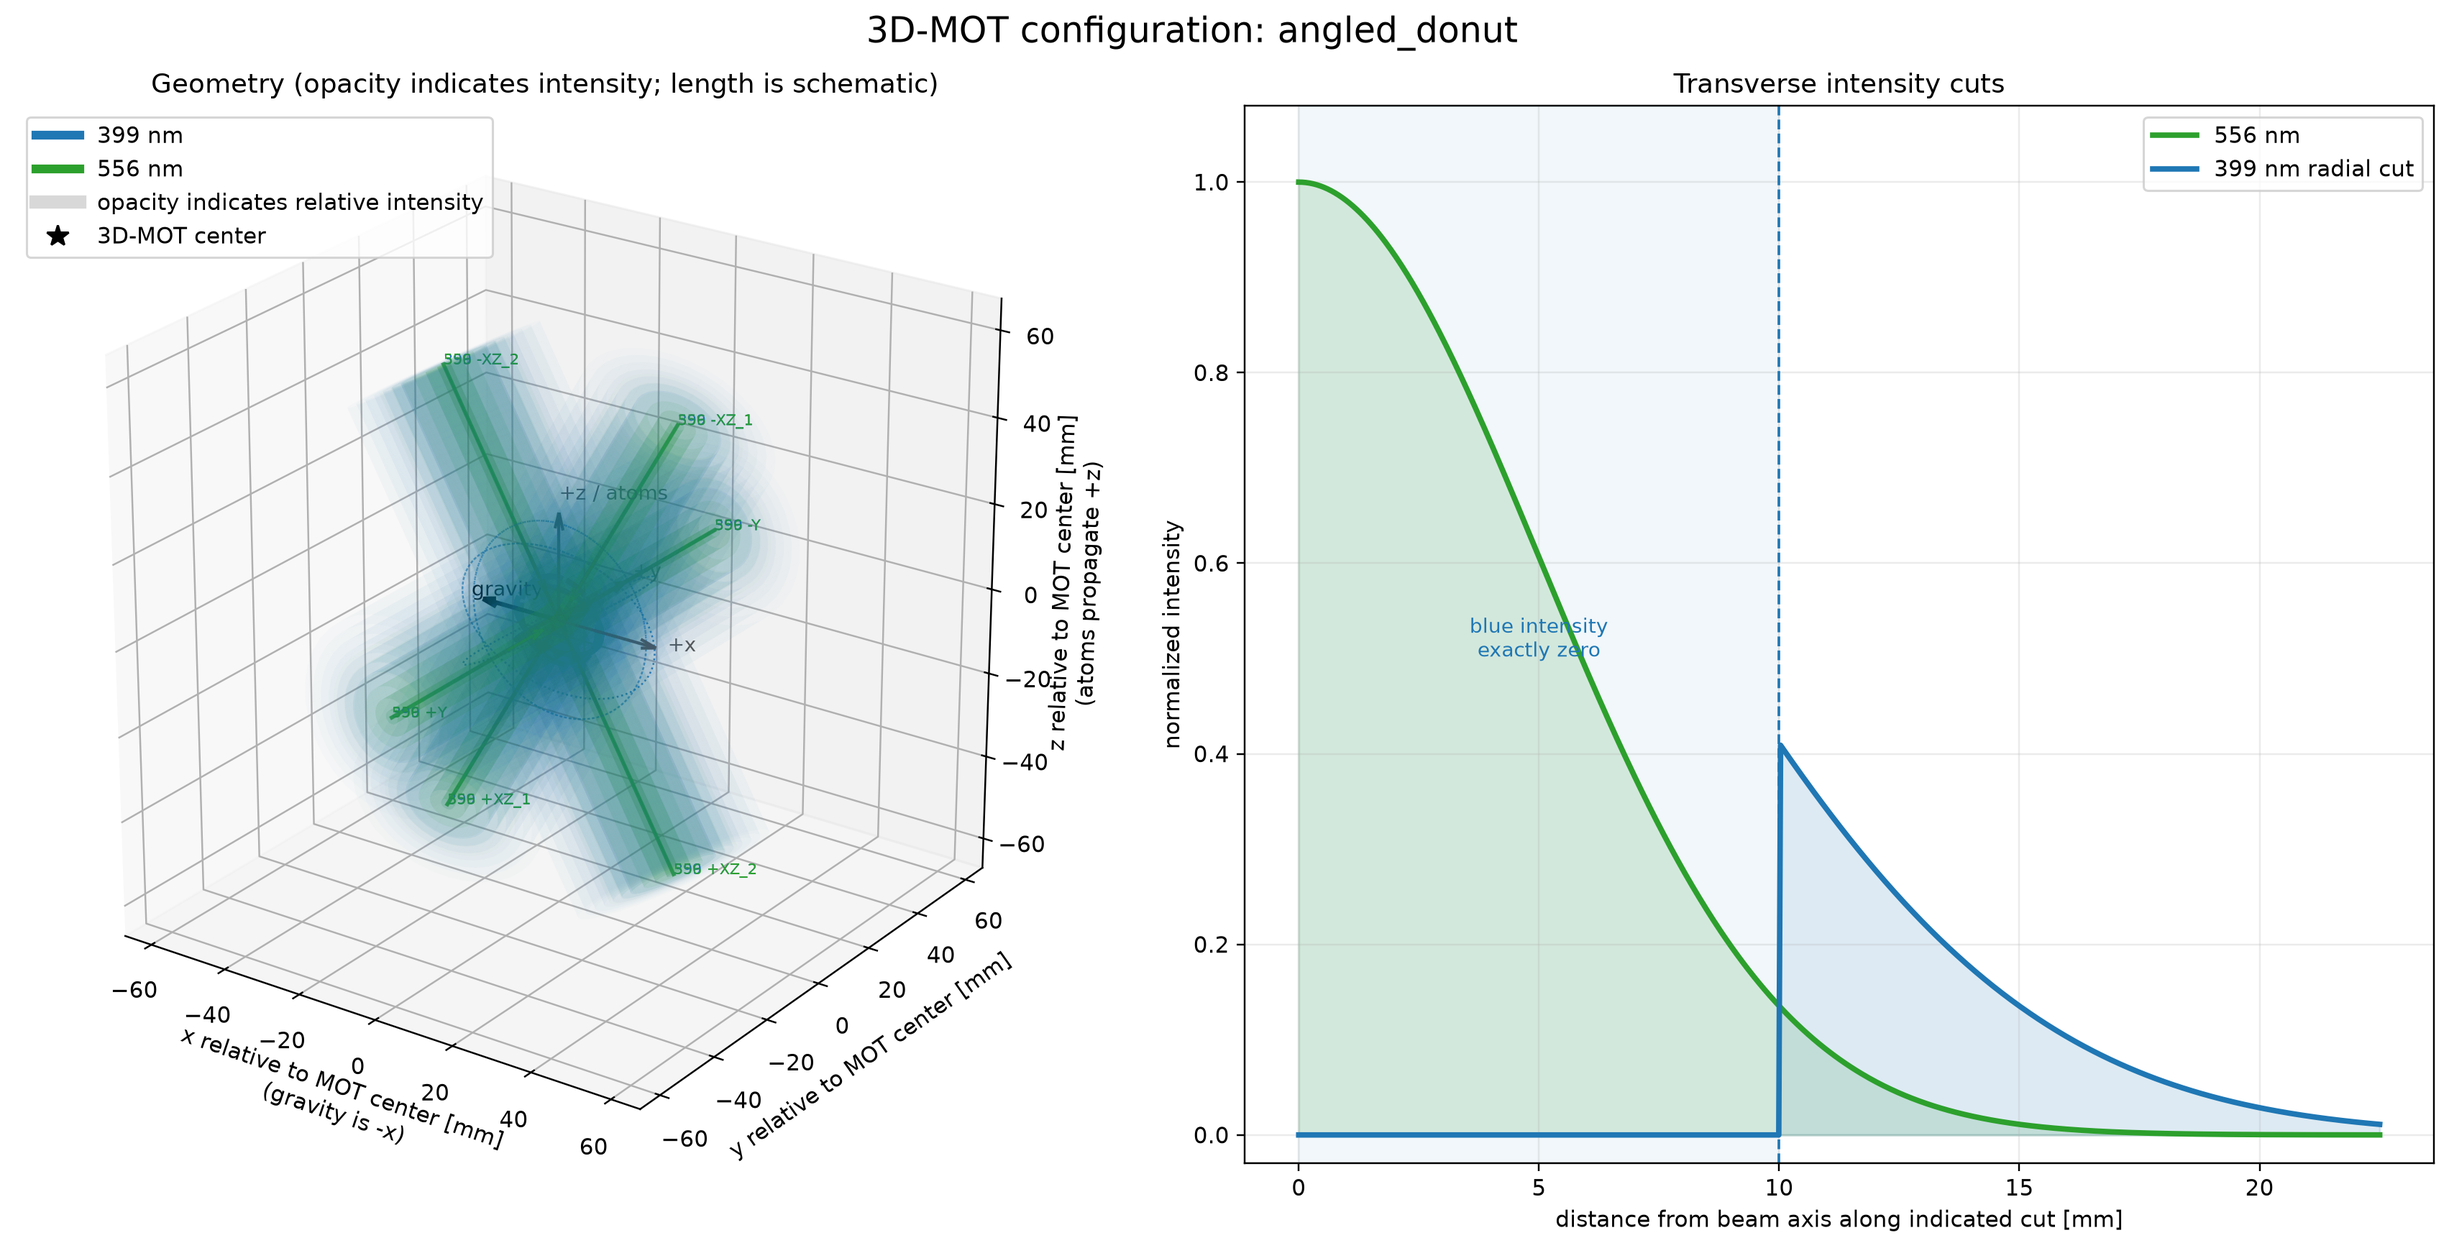
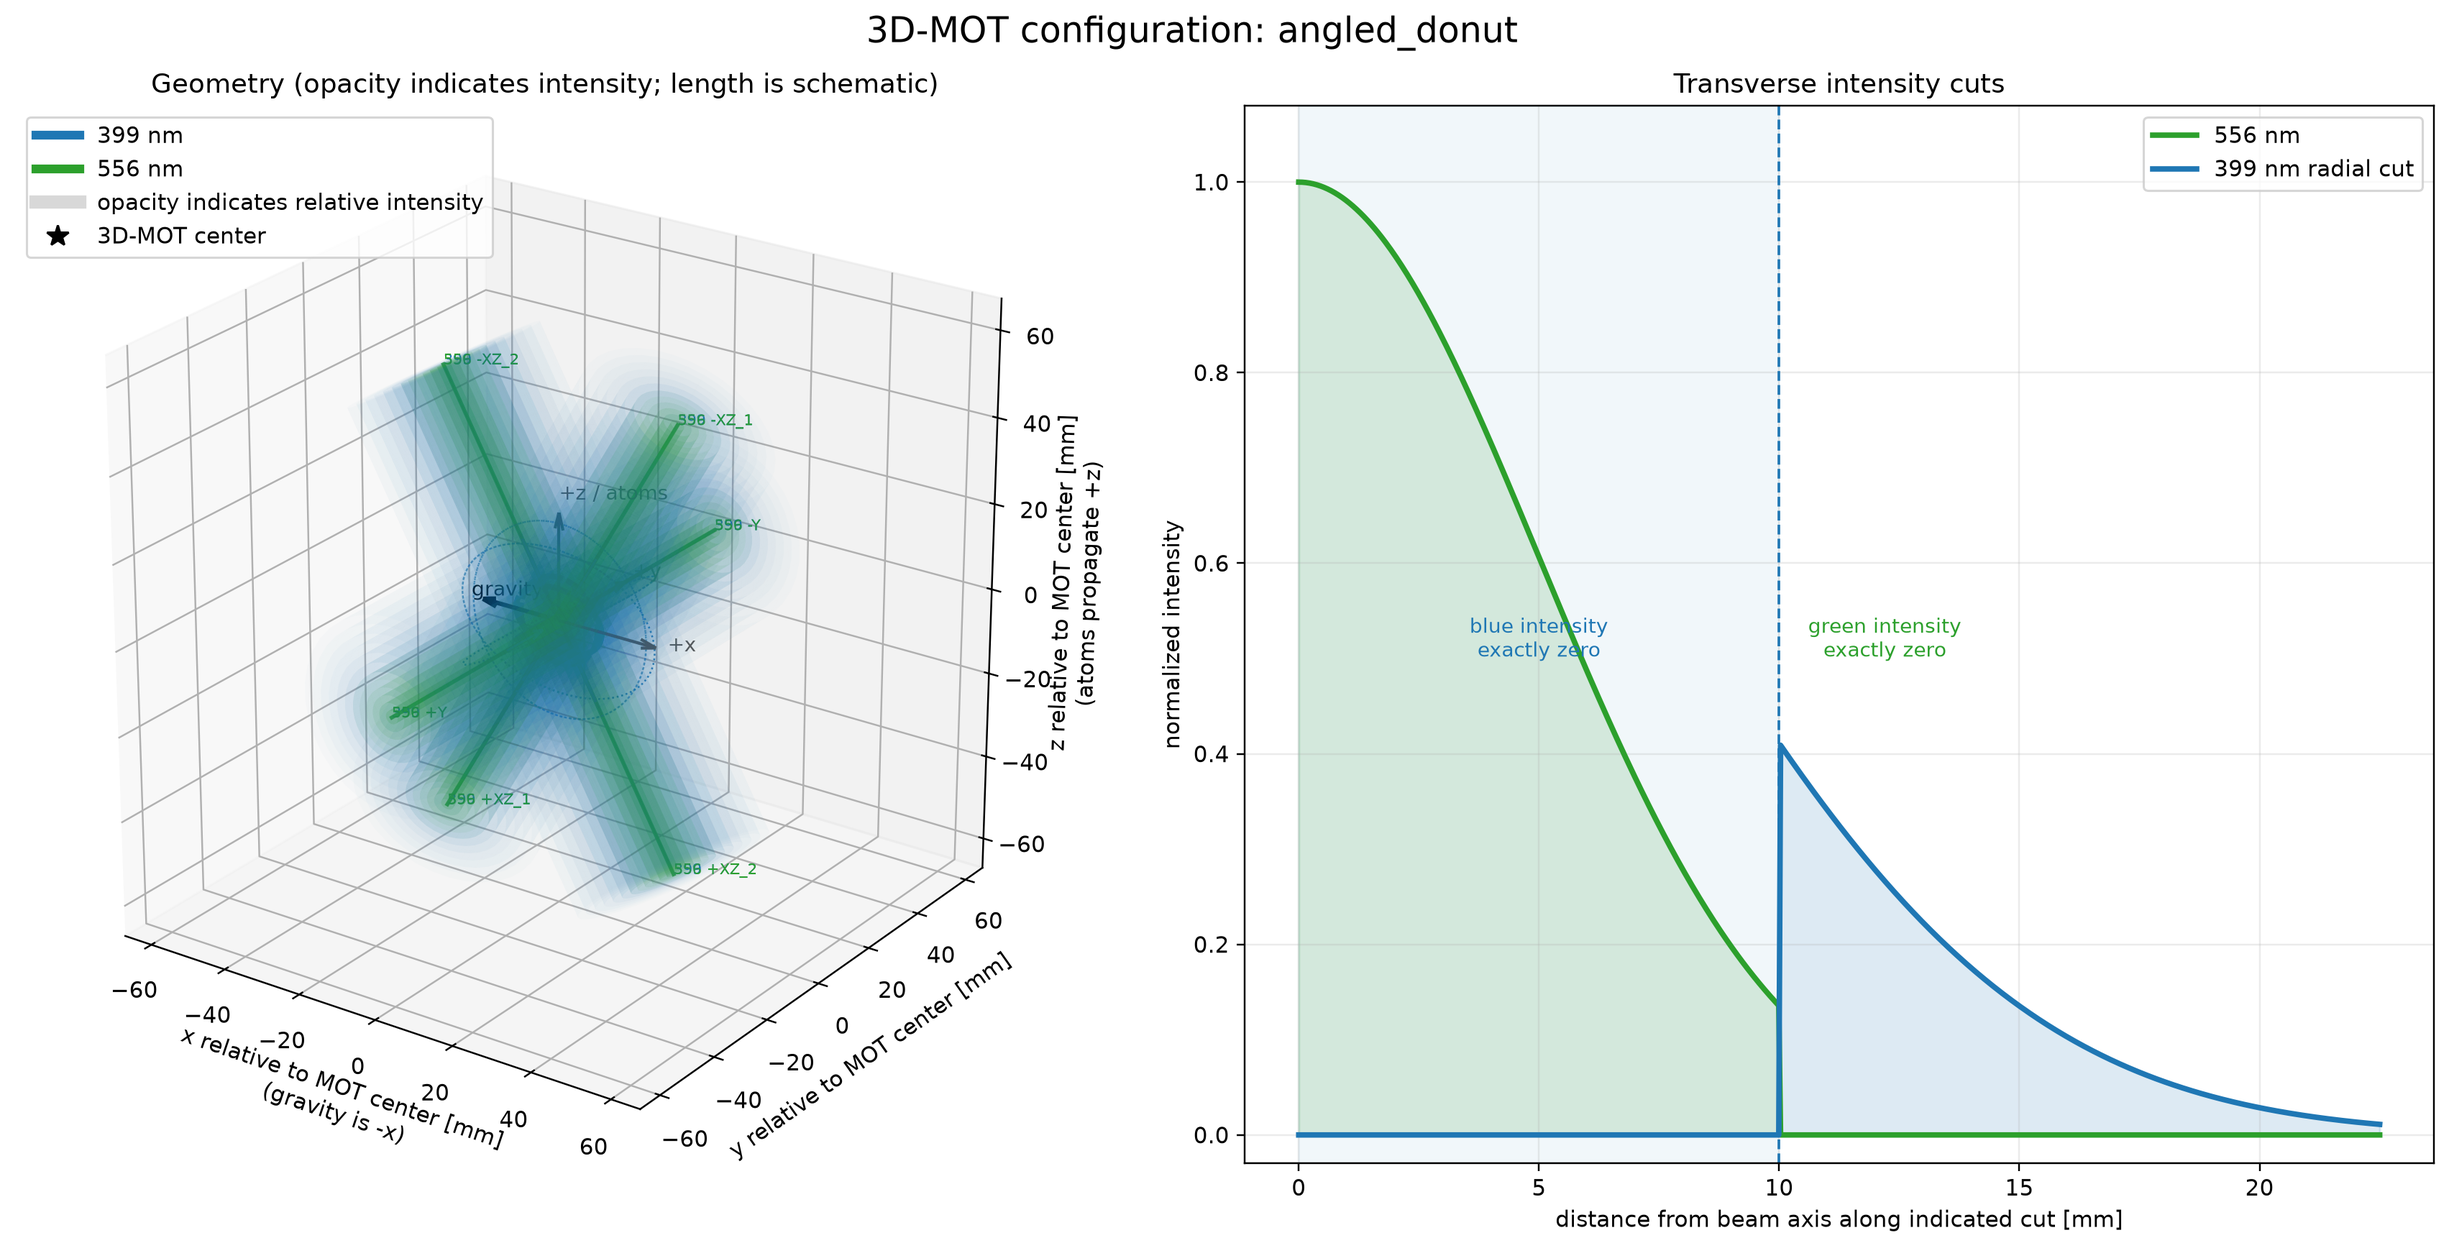
refine 3D MOT beam geometry

Changed region(s): [[0.7158, 0.8088, 0.8714, 0.9332], [0.7469, 0.4977, 0.8092, 0.5288], [0.249, 0.3422, 0.2801, 0.3733]]

diff --git a/lab_setup/laser_setup_3d.py b/lab_setup/laser_setup_3d.py
@@ -66,6 +66,32 @@ class DonutGaussianBeam(CircularGaussianBeam):
         return intensity
 
 
+class OuterClippedGaussianBeam(CircularGaussianBeam):
+    """A Gaussian beam transmitted only inside a hard outer aperture."""
+
+    def __init__(self, *args, outer_cutoff_radius=0.5e-3, **kwargs):
+        self.outer_cutoff_radius = float(outer_cutoff_radius)
+        if self.outer_cutoff_radius <= 0.0:
+            raise ValueError("outer_cutoff_radius must be positive.")
+        super().__init__(*args, **kwargs)
+
+    @property
+    def type(self):
+        return "Outer-clipped Gaussian Beam"
+
+    @property
+    def disp_type(self):
+        return "Outer-clipped beam"
+
+    @staticmethod
+    def _intensity_func(self, position):
+        position_laser = self._convert_coordinates_to_laser_frame(position)
+        x_laser, y_laser, _ = position_laser.T
+        rho_laser = np.sqrt(x_laser**2 + y_laser**2)
+        intensity = CircularGaussianBeam._intensity_func(self, position)
+        return np.where(rho_laser < self.outer_cutoff_radius, intensity, 0.0)
+
+
 def _normalize_vector(vec):
     vec = np.asarray(vec, dtype=float)
     norm = np.linalg.norm(vec)
@@ -161,7 +187,12 @@ def _validate_profile(profile):
             raise ValueError(
                 f"3D-MOT {wavelength_key} component is missing 'detuning_gamma'."
             )
-        if component["profile"] not in {"gaussian", "donut", "elliptical"}:
+        if component["profile"] not in {
+            "gaussian",
+            "donut",
+            "elliptical",
+            "outer_clipped_gaussian",
+        }:
             raise ValueError(
                 f"Unsupported 3D-MOT {wavelength_key} profile "
                 f"'{component['profile']}'."
@@ -174,6 +205,14 @@ def _validate_profile(profile):
                     )
         elif float(component.get("waist_m", 0.0)) <= 0.0:
             raise ValueError(f"3D-MOT {wavelength_key} waist_m must be positive.")
+
+        if component["profile"] == "outer_clipped_gaussian":
+            cutoff = component.get("outer_cutoff_radius_m")
+            if cutoff is None or float(cutoff) <= 0.0:
+                raise ValueError(
+                    f"Set a positive {wavelength_key}.outer_cutoff_radius_m "
+                    "for an outer-clipped Gaussian beam."
+                )
 
         polarization_by_axis = component.get("polarization_by_axis", {})
         invalid_polarizations = {
@@ -284,11 +323,14 @@ def setup_3dmot_lasers(mot_3d_config=None, center_position=None, profile_name=No
         profile_kind,
         polarization,
         inner_cutoff_radius=None,
+        outer_cutoff_radius=None,
         waist_short=None,
         waist_long=None,
     ):
         if profile_kind == "donut":
             beam_cls = DonutGaussianBeam
+        elif profile_kind == "outer_clipped_gaussian":
+            beam_cls = OuterClippedGaussianBeam
         elif profile_kind == "elliptical":
             beam_cls = EllipticalLaserBeam
         else:
@@ -304,6 +346,8 @@ def setup_3dmot_lasers(mot_3d_config=None, center_position=None, profile_name=No
         )
         if profile_kind == "donut":
             beam_kwargs["inner_cutoff_radius"] = inner_cutoff_radius
+        elif profile_kind == "outer_clipped_gaussian":
+            beam_kwargs["outer_cutoff_radius"] = outer_cutoff_radius
         elif profile_kind == "elliptical":
             beam_kwargs.pop("waist")
             beam_kwargs["wx"] = waist_short
@@ -356,6 +400,9 @@ def setup_3dmot_lasers(mot_3d_config=None, center_position=None, profile_name=No
                     beam_center=beam_center,
                     profile_kind=beam_556_cfg["profile"],
                     polarization=_beam_polarization(beam_556_cfg, axis_tag),
+                    outer_cutoff_radius=beam_556_cfg.get(
+                        "outer_cutoff_radius_m"
+                    ),
                 )
             )
 

diff --git a/graphs_scripts/plot_3d_mot_configurations.py b/graphs_scripts/plot_3d_mot_configurations.py
@@ -185,6 +185,28 @@ def _draw_gaussian_beam(ax, source, center, direction, radius_m, color):
     )
 
 
+def _draw_outer_clipped_gaussian_beam(
+    ax, source, center, direction, waist_m, outer_cutoff_radius_m, color
+):
+    """Draw only the part of a Gaussian transmitted by the outer aperture."""
+    min_radius = min(0.15 * waist_m, 0.15 * outer_cutoff_radius_m)
+    for radius in np.linspace(outer_cutoff_radius_m, min_radius, 6):
+        relative_intensity = np.exp(-2.0 * radius**2 / waist_m**2)
+        x, y, z = _cylinder_surface(source, center, radius)
+        ax.plot_surface(
+            x * MM_PER_M,
+            y * MM_PER_M,
+            z * MM_PER_M,
+            color=color,
+            alpha=_intensity_alpha(relative_intensity),
+            linewidth=0,
+            shade=False,
+        )
+
+    segment = np.vstack([source, center]) * MM_PER_M
+    ax.plot(*segment.T, color=color, linewidth=1.8, alpha=0.85)
+
+
 def _draw_elliptical_beam(ax, source, center, direction, short_m, long_m, color):
     """Draw the crossed slower with its long axis along lab y."""
     direction = np.asarray(direction, dtype=float)
@@ -327,6 +349,13 @@ def _normalized_radial_intensity(cfg, radius_m, waist_m=None):
             0.0,
             intensity,
         )
+    if cfg.get("profile") == "outer_clipped_gaussian":
+        intensity = np.exp(-2.0 * radius_m**2 / float(cfg["waist_m"]) ** 2)
+        return np.where(
+            radius_m < float(cfg["outer_cutoff_radius_m"]),
+            intensity,
+            0.0,
+        )
     waist = waist_m or cfg.get("waist_m", cfg.get("waist_short_m"))
     return np.exp(-2.0 * radius_m**2 / float(waist) ** 2)
 
@@ -346,6 +375,8 @@ def _draw_radial_profiles(ax, blue_cfg, green_cfg):
     ]
     if blue_cfg.get("profile") == "donut":
         characteristic_radii.append(float(blue_cfg["inner_cutoff_radius_m"]))
+    if green_cfg.get("profile") == "outer_clipped_gaussian":
+        characteristic_radii.append(float(green_cfg["outer_cutoff_radius_m"]))
     radius_m = np.linspace(0.0, max(characteristic_radii), 600)
 
     profiles = [(green_cfg, GREEN_COLOR, "556 nm", None, "-")]
@@ -402,6 +433,16 @@ def _draw_radial_profiles(ax, blue_cfg, green_cfg):
             va="center",
             fontsize=9,
         )
+        if green_cfg.get("profile") == "outer_clipped_gaussian":
+            ax.text(
+                1.22 * cutoff_mm,
+                0.52,
+                "green intensity\nexactly zero",
+                color=GREEN_COLOR,
+                ha="center",
+                va="center",
+                fontsize=9,
+            )
 
     ax.set_title("Transverse intensity cuts")
     ax.set_xlabel("distance from beam axis along indicated cut [mm]")
@@ -518,6 +559,18 @@ def plot_configuration(name, profile, beam_length_m):
                     1.5 * float(cfg["waist_m"]),
                     inner_cutoff_radius,
                 )
+            elif profile_kind == "outer_clipped_gaussian":
+                outer_cutoff_radius = float(cfg["outer_cutoff_radius_m"])
+                _draw_outer_clipped_gaussian_beam(
+                    ax,
+                    source,
+                    component_center,
+                    direction,
+                    float(cfg["waist_m"]),
+                    outer_cutoff_radius,
+                    color,
+                )
+                display_radius = outer_cutoff_radius
             elif profile_kind == "elliptical":
                 short_m = float(cfg["waist_short_m"])
                 long_m = float(cfg["waist_long_m"])

diff --git a/tests/test_3d_mot_config.py b/tests/test_3d_mot_config.py
@@ -86,7 +86,13 @@ def test_angled_donut_geometry_is_correct():
     assert len(blue_beams) == 6
     assert len(green_beams) == 6
     assert all(getattr(beam, "profile_kind", "gaussian") == "donut" for beam in blue_beams)
-    assert all(getattr(beam, "profile_kind", "gaussian") == "gaussian" for beam in green_beams)
+    assert all(
+        getattr(beam, "profile_kind", "gaussian") == "outer_clipped_gaussian"
+        for beam in green_beams
+    )
+    assert profile["556"]["outer_cutoff_radius_m"] == pytest.approx(
+        profile["399"]["inner_cutoff_radius_m"]
+    )
 
     beam_by_tag = {beam.tag: _normalize(beam.direction) for beam in beams}
     assert np.allclose(beam_by_tag["3DMOT_399_+XZ_1"], -beam_by_tag["3DMOT_399_-XZ_1"])
@@ -110,8 +116,15 @@ def test_angled_sequential_matches_plotkin_swing_crossed_beam_geometry():
     assert np.allclose(green_center, (0.0, 0.0, 0.0))
 
     blue_directions = [_normalize(beam.direction) for beam in blue_beams]
+    expected_angle_deg = MOT_3D_CONFIGURATIONS["angled_donut"][
+        "xz_angle_from_z_deg"
+    ]
+    assert MOT_3D_CONFIGURATIONS["angled_sequential"][
+        "xz_angle_from_z_deg"
+    ] == pytest.approx(expected_angle_deg)
+    expected_z_component = -np.cos(np.radians(expected_angle_deg))
     assert all(
-        np.isclose(direction[2], -1.0 / np.sqrt(2.0))
+        np.isclose(direction[2], expected_z_component)
         for direction in blue_directions
     )
     assert np.isclose(blue_directions[0][0], -blue_directions[1][0])
@@ -278,6 +291,29 @@ def test_donut_is_an_unmodified_gaussian_with_a_hard_central_cutoff():
         pass
     else:
         raise AssertionError("Expected ValueError for non-positive cutoff radius")
+
+
+def test_angled_donut_green_and_blue_profiles_are_complementary():
+    profile = _resolved_profile("angled_donut")
+    beams = setup_3dmot_lasers(
+        mot_3d_config=profile,
+        center_position=(0.0, 0.0, 0.0),
+    )
+    blue = next(beam for beam in beams if beam.tag == "3DMOT_399_+Y")
+    green = next(beam for beam in beams if beam.tag == "3DMOT_556_+Y")
+    cutoff = profile["399"]["inner_cutoff_radius_m"]
+    assert green.outer_cutoff_radius == pytest.approx(cutoff)
+
+    inside = np.array([[0.5 * cutoff, 0.0, 0.0]])
+    boundary = np.array([[cutoff, 0.0, 0.0]])
+    outside = np.array([[1.5 * cutoff, 0.0, 0.0]])
+
+    assert blue.get_value(inside)[0] == 0.0
+    assert green.get_value(inside)[0] > 0.0
+    assert blue.get_value(boundary)[0] > 0.0
+    assert green.get_value(boundary)[0] == 0.0
+    assert blue.get_value(outside)[0] > 0.0
+    assert green.get_value(outside)[0] == 0.0
 
 
 def test_3d_mot_builder_uses_profile_values_not_detuning_arguments():

diff --git a/config.py b/config.py
@@ -342,13 +342,16 @@ MOT_3D_CONFIGURATIONS = {
             "s0": 5.0,
             "detuning_gamma": -10.0,
             "waist_m": 0.01,
-            "profile": "gaussian",
+            "profile": "outer_clipped_gaussian",
+            # The chamber walls transmit the green beam only inside the same
+            # radius at which the center-blocked blue beam begins.
+            "outer_cutoff_radius_m": 0.01,
         },
     },
     "angled_sequential": {
-        "description": "Plotkin-Swing et al. crossed-beam slower: a six-beam 556-nm MOT plus two 399-nm beams crossing 1 cm upstream at 45 degrees.",
+        "description": "Crossed-beam slower: a six-beam 556-nm MOT plus two 399-nm beams crossing 1 cm upstream, using the same +/-30-degree xz axes as angled_donut.",
         "beam_layout": "angled_xz_y",
-        "xz_angle_from_z_deg": 45.0,
+        "xz_angle_from_z_deg": 30.0,
         "center_position_m": Geometry.MOT_3D_CENTER_M,
         # The third MOT-beam axis is y, so the quadrupole's strong axis must
         # be y for the standard 2:1 gradient and helicity arrangement.

diff --git a/lab_setup/README.md b/lab_setup/README.md
@@ -50,14 +50,14 @@ Builds 3D MOT laser beams for the final capture region when applicable.
 
 The 3D-MOT configuration is profile-based and selectable through `ACTIVE_MOT_3D_CONFIGURATION` in `config.py`. The supported experimental concepts are intentionally narrow and explicit:
 
-- `angled_donut`: two xz axes at ±30° from z, one y axis, a blue 399-nm Gaussian whose central 10-mm-radius disk is blocked completely, plus a coaxial green 556-nm Gaussian component
-- `angled_sequential`: the Plotkin-Swing crossed-beam scheme: a six-beam 556-nm MOT and two elliptical 399-nm slowing beams at 45 degrees, crossing 1 cm upstream of the MOT
+- `angled_donut`: two xz axes at ±30° from z and one y axis. The coaxial beams are complementary at a 10-mm radius: the blue 399-nm Gaussian is exactly zero inside that radius and begins at the boundary, while the green 556-nm Gaussian is transmitted only inside the radius and is exactly zero from the boundary outward
+- `angled_sequential`: the crossed-beam scheme: a six-beam 556-nm MOT and two elliptical 399-nm slowing beams using the same ±30-degree xz axes as `angled_donut`, crossing 1 cm upstream of the MOT
 - `five_beam_gravity`: five-beam geometry with the `-x` beam removed; every direction combines the same center-blocked blue 399-nm Gaussian with a coaxial green 556-nm Gaussian, and the two orthogonal counter-propagating axes in the `yz` plane are rotated by 45° from the atomic `+z` transport axis, so no in-plane beam is parallel to the atoms
 
 For `angled_sequential`, parameter provenance is intentionally separated:
 
 - **Directly reported by Plotkin-Swing et al. (2020):** two 399-nm crossed slowing beams; 45-degree beam angle relative to the atomic beam; crossing point 10 mm before the MOT center; 1/e^2 short-axis width of 1.5 mm; long ellipse axis oriented perpendicular to the top-down view and sized to match the MOT-beam height; optimized crossed-beam saturation parameter `sX = 0.3`; and crossed-beam detuning of approximately -42 MHz.
-- **Geometry and sign-convention deductions used by this implementation:** atoms propagate along lab `+z`, so both slowing beams have negative `z` propagation components; their transverse components are opposite; the ellipse long axis maps to lab `y`; its 10-mm waist follows from the approximately 2-cm MOT diameter used in the paper; the 556-nm MOT uses the same two orthogonal axes in the `xz` plane plus the `y` axis; and, for the configured field convention, the quadrupole strong axis is `y` with right-handed circular polarization on the `xz` pairs and left-handed circular polarization on the `y` pair. Force tests verify slowing, transverse cancellation, and restoring behavior on both sides of all three axes.
+- **Geometry and sign-convention choices used by this implementation:** the xz axes use ±30 degrees from lab `z`, matching `angled_donut`; this is an intentional project geometry choice and differs from the paper's 45-degree value. Atoms propagate along lab `+z`, so both slowing beams have negative `z` propagation components; their transverse components are opposite; the ellipse long axis maps to lab `y`; its 10-mm waist follows from the approximately 2-cm MOT diameter used in the paper; the 556-nm MOT uses the same two orthogonal axes in the `xz` plane plus the `y` axis; and, for the configured field convention, the quadrupole strong axis is `y` with right-handed circular polarization on the `xz` pairs and left-handed circular polarization on the `y` pair. Force tests verify slowing, transverse cancellation, and restoring behavior on both sides of all three axes.
 - **Provisional optimization defaults:** the blue detuning is stored as `-1.45 Gamma` as a convenient seed rather than a fixed reproduction of the paper; the green values `s0 = 5`, `detuning_gamma = -10`, and `waist_m = 10 mm` are temporary defaults because the paper does not establish them as the experimental operating point used by this project. The current 3D-MOT gradient of 10 G/cm is also provisional.
 
 The configuration plot shows separate short-axis and long-axis intensity cuts for the elliptical 399-nm beams. The other experimental concepts retain their own explicit configurable defaults; values from one profile must not be treated as finalized parameters for another.
